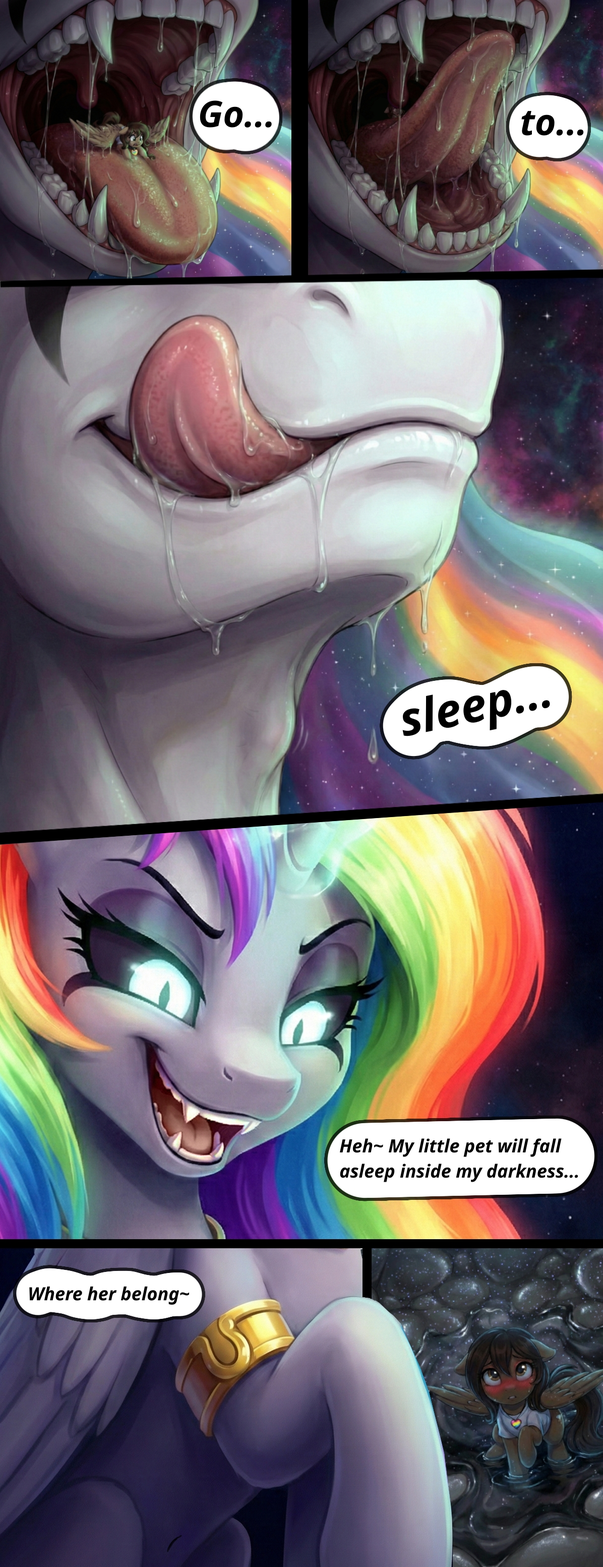
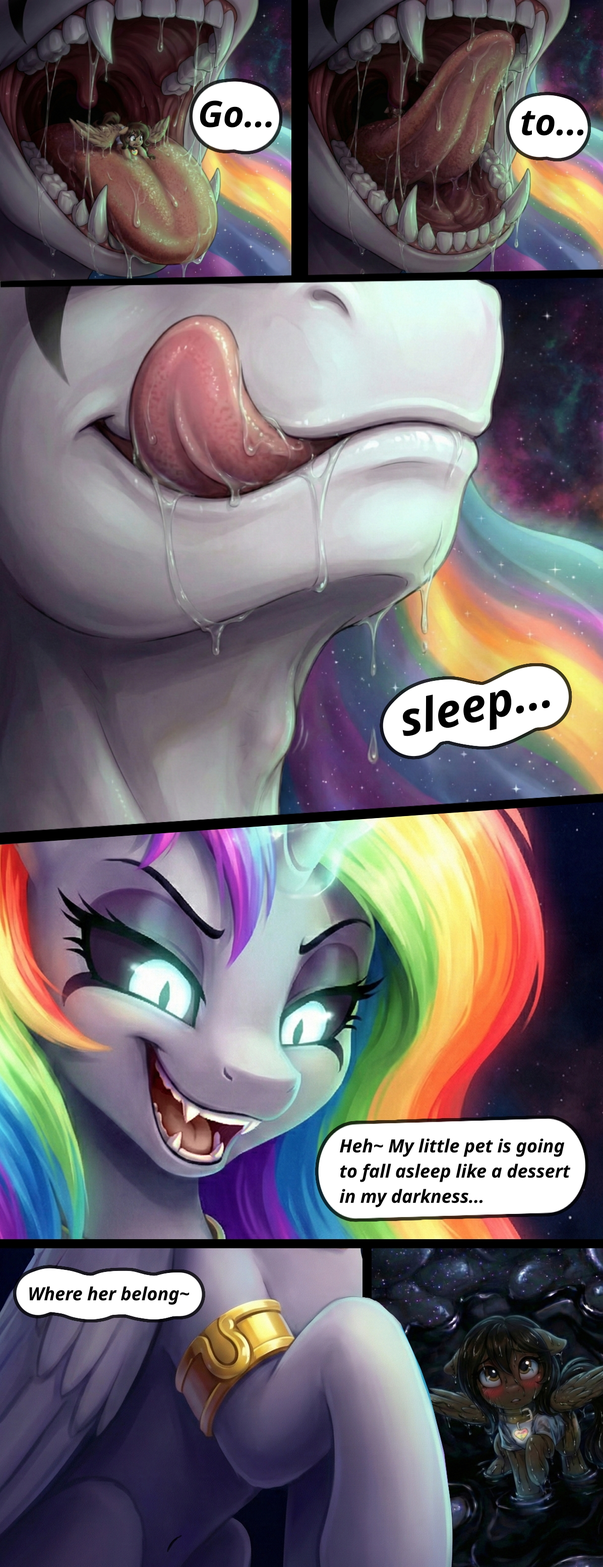
tiny fix.

Changed region(s): [[0.5259, 0.6868, 1.0, 1.0]]

diff --git a/public/img/gallery/wip/rain-yasmin-sleep/README.md b/public/img/gallery/wip/rain-yasmin-sleep/README.md
@@ -39,7 +39,7 @@ Image 2: to...
 
 Image 3: sleep~
 
-Image 4: Heh~ My little pet will fall asleep in my darkness...
+Image 4: Heh~ My little pet is going to fall asleep like a dessert in my darkness...
 
 Image 5: Where her belong~
 
